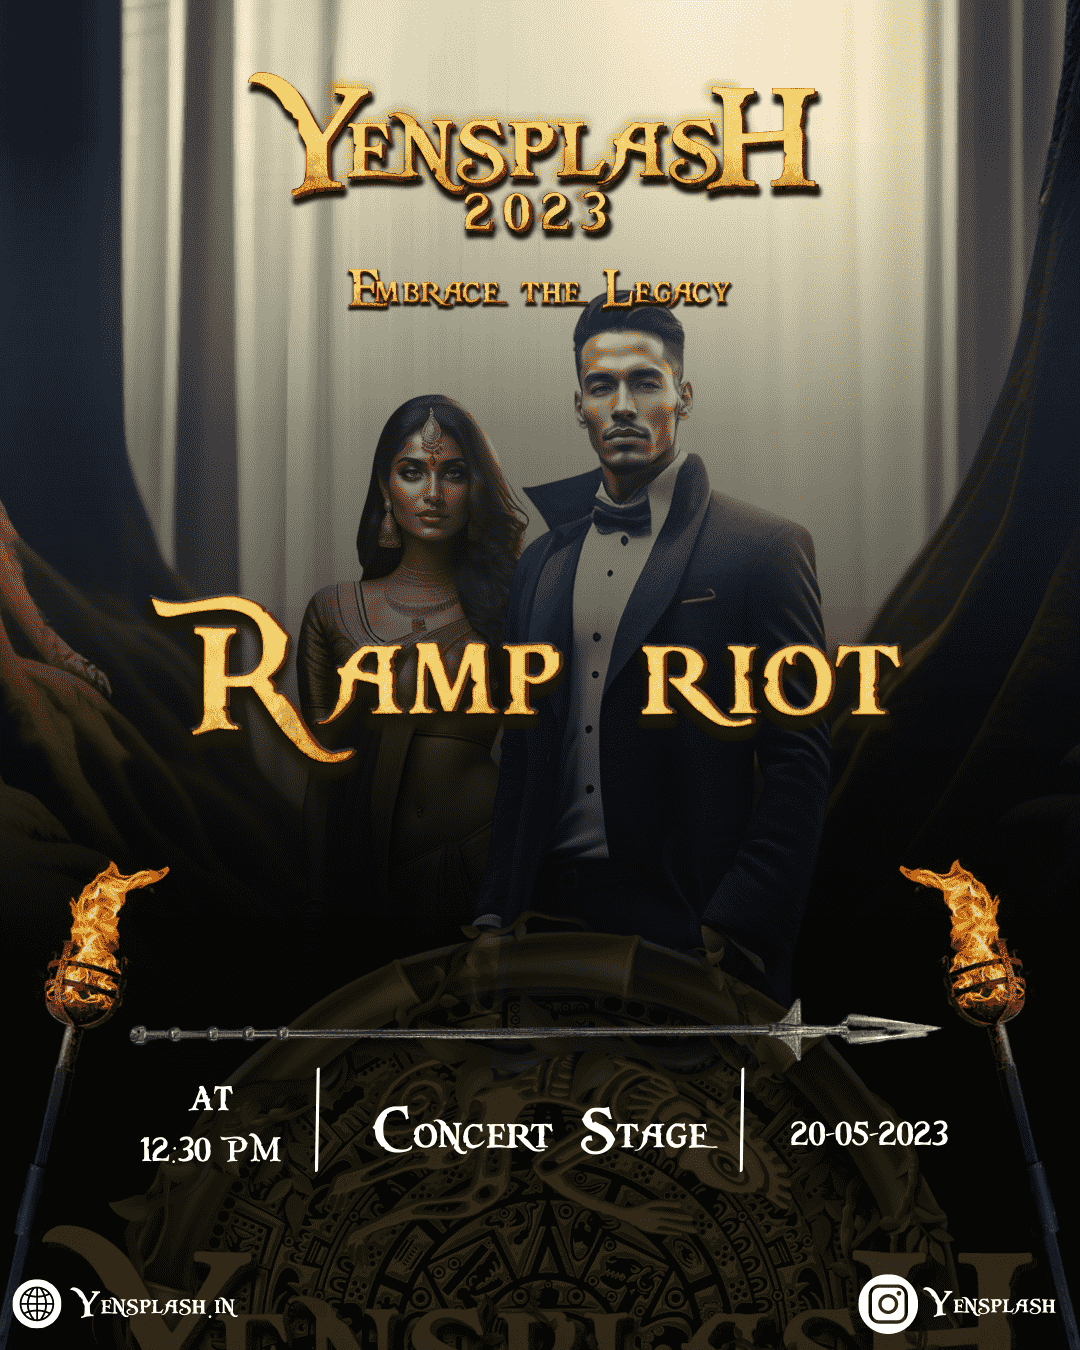
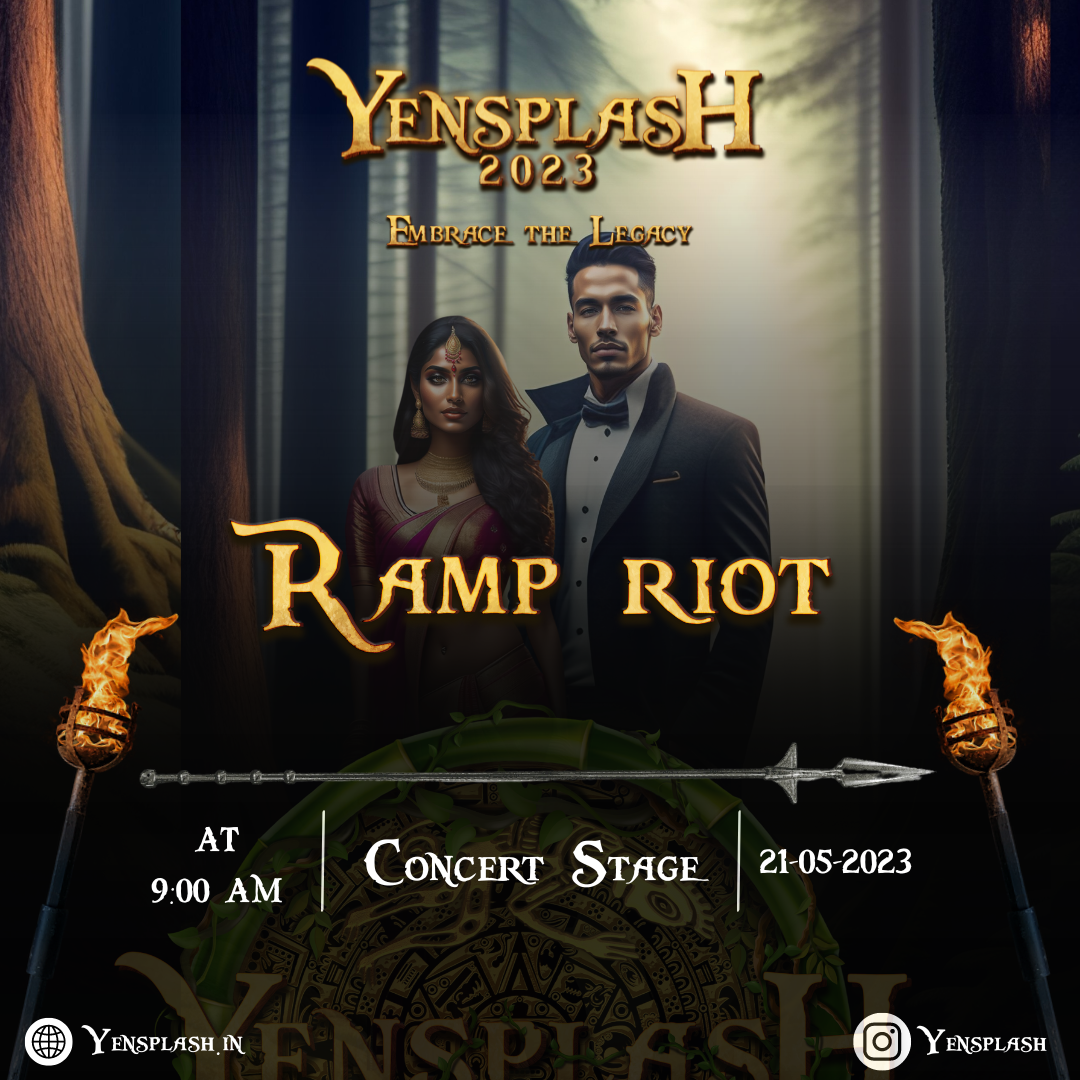
changed images and timings of events

diff --git a/src/eventDetails.js b/src/eventDetails.js
@@ -1,33 +1,33 @@
 
-import AnalyticChamp from "./images/poster/poster1.png";
-import FilmFrenzyFest from "./images/poster/poster10.png";
-import FunkFromJunk from "./images/poster/poster11.png";
-import HennaHeritage from "./images/poster/poster12.png";
-import JazzOff from "./images/poster/poster13.png";
-import Maze from "./images/poster/poster14.png";
-import MockCID from "./images/poster/poster15.png";
-import NoBakeMaster from "./images/poster/poster16.png";
-import PalleteOFPerfection from "./images/poster/poster17.png";
-import PencilPassion from "./images/poster/poster18.png";
+import AnalyticChamp from "./images/poster/poster1.jpg";
+import FilmFrenzyFest from "./images/poster/poster10.jpg";
+import FunkFromJunk from "./images/poster/poster11.jpg";
+import HennaHeritage from "./images/poster/poster12.jpg";
+import JazzOff from "./images/poster/poster13.jpg";
+import Maze from "./images/poster/poster14.jpg";
+import MockCID from "./images/poster/poster15.jpg";
+import NoBakeMaster from "./images/poster/poster16.jpg";
+import PalleteOFPerfection from "./images/poster/poster17.jpg";
+import PencilPassion from "./images/poster/poster18.jpg";
 import RampRiot from "./images/poster/poster19.png";
-import BGMI from "./images/poster/poster2.png";
-import RhythmicFusion from "./images/poster/poster20.png";
-import Shayari from "./images/poster/poster21.png";
-import Singing from "./images/poster/poster22.png";
-import StreetDance from "./images/poster/poster23.png";
-import Valorant from "./images/poster/poster24.png";
-import FaceOfFrenzy from "./images/poster/poster25.png";
-import WarOfWords from "./images/poster/poster26.png";
-import WildPromotions from "./images/poster/poster27.png";
-import YenShark from "./images/poster/poster28.png";
+import BGMI from "./images/poster/poster2.jpg";
+import RhythmicFusion from "./images/poster/poster20.jpg";
+import Shayari from "./images/poster/poster21.jpg";
+import Singing from "./images/poster/poster22.jpg";
+// import StreetDance from "./images/poster/poster23.png";
+import Valorant from "./images/poster/poster24.jpg";
+import FaceOfFrenzy from "./images/poster/poster25.jpg";
+import WarOfWords from "./images/poster/poster26.jpg";
+import WildPromotions from "./images/poster/poster27.jpg";
+import YenShark from "./images/poster/poster28.jpg";
 import YGT from "./images/poster/poster29.png";
-import BlindTypeBattle from "./images/poster/poster3.png";
-import BrushOfBrush from "./images/poster/poster4.png";
-import BugBash from "./images/poster/poster5.png";
-import CameraChronicles from "./images/poster/poster6.png";
-import CinematicShot from "./images/poster/poster7.png";
-import comicComat from "./images/poster/poster8.png";
-import Cubix from "./images/poster/poster9.png";
+import BlindTypeBattle from "./images/poster/poster3.jpg";
+import BrushOfBrush from "./images/poster/poster4.jpg";
+import BugBash from "./images/poster/poster5.jpg";
+import CameraChronicles from "./images/poster/poster6.jpg";
+import CinematicShot from "./images/poster/poster7.jpg";
+import comicComat from "./images/poster/poster8.jpg";
+import Cubix from "./images/poster/poster9.jpg";
 
 
 export const events = [
@@ -341,9 +341,9 @@ export const events = [
       "faculty": ["Deeksha K R", "Harikanth"]
     },
     "schedule": {
-      "day": "20th May",
+      "day": "21st May",
       "venue": "Concert Stage",
-      "time": "12:30 PM- 2:00 PM"
+      "time": "9:00 AM"
     }
   },
   {
@@ -515,8 +515,8 @@ export const events = [
     },
     "schedule": {
       "day": "20th May",
-      "venue": "Seminar Hall",
-      "time": "2:00 PM – 3:00 PM"
+      "venue": "Open-air Auditorium",
+      "time": "9:45 AM"
     }
   },
   {
@@ -594,7 +594,7 @@ export const events = [
     },
     "schedule": {
       "day": "20th May",
-      "venue": "SLH02",
+      "venue": "Seminar Hall",
       "time": "2:00 PM – 3:00 PM"
     }
   },
@@ -671,44 +671,44 @@ export const events = [
       "time": "2:30 PM – 3:30 PM"
     }
   },
-  {
-    "name": "Street Dance",
-    "alias": "",
-    "image": StreetDance,
-    "aboutEvent": "Are you ready to get down and groove to the beat of the streets? Welcome to the world of street dance, where the rhythm is electric and the energy is contagious! From popping and locking to breaking and krumping. This urban dance style is all about pushing boundaries, expressing yourself, and having a blast. So let's hit the dance floor and get ready to move to the rhythm of the SPLASH!",
-    "eventDetail": [
-      "Dancers will compete head-to-head in a series of rounds, with the winner of each round advancing to the next until a champion is crowned."
-    ],
-    "rules": [
-      "It is a Solo dance event.(Free style)",
-      "Two participants will be facing head-to-head with each other.",
-      "Each dancer will have a set amount of time to perform.",
-      "Song will be played by the event coordinator.",
-      "Each Participant should maintain the dance streak of minimum 45 seconds to 1 minute.",
-      "There are no preliminary rounds , every round will be noted as eliminatory round.Judges decision is final."
-    ],
-    "judgingCriteria": [
-      "Musicality: How well a breaker/participant connects with and expresses the music through their dance.",
-      "Foundation: Showcasing mastery of the basics top rock and footwork steps, go downs, transitions, freezes",
-      "Character: How well a breaker/participant expresses their personality through their dance.",
-      "Difficulty of movement: How well a breaker/participant expresses their personality through their dance",
-      "Style: If a breaker/participant showcases a way of moving that’s unique to them.",
-      "Originality: Coming up with fresh variations on existing moves"
-    ],
-    "coordinators": {
-      "students": [
-        { "name": "Abhishek", "phone": "9108674964" },
-        { "name": "Guruprasad", "phone": "9591446918" },
-        { "name": "Ganesh", "phone": "8792143538" }
-      ],
-      "faculty": ["Seetha Laxmi", "Namratha"]
-    },
-    "schedule": {
-      "day": "20th May",
-      "venue": "Car Parking Area",
-      "time": "4:00 PM -5:00 PM"
-    }
-  },
+  // {
+  //   "name": "Street Dance",
+  //   "alias": "",
+  //   "image": StreetDance,
+  //   "aboutEvent": "Are you ready to get down and groove to the beat of the streets? Welcome to the world of street dance, where the rhythm is electric and the energy is contagious! From popping and locking to breaking and krumping. This urban dance style is all about pushing boundaries, expressing yourself, and having a blast. So let's hit the dance floor and get ready to move to the rhythm of the SPLASH!",
+  //   "eventDetail": [
+  //     "Dancers will compete head-to-head in a series of rounds, with the winner of each round advancing to the next until a champion is crowned."
+  //   ],
+  //   "rules": [
+  //     "It is a Solo dance event.(Free style)",
+  //     "Two participants will be facing head-to-head with each other.",
+  //     "Each dancer will have a set amount of time to perform.",
+  //     "Song will be played by the event coordinator.",
+  //     "Each Participant should maintain the dance streak of minimum 45 seconds to 1 minute.",
+  //     "There are no preliminary rounds , every round will be noted as eliminatory round.Judges decision is final."
+  //   ],
+  //   "judgingCriteria": [
+  //     "Musicality: How well a breaker/participant connects with and expresses the music through their dance.",
+  //     "Foundation: Showcasing mastery of the basics top rock and footwork steps, go downs, transitions, freezes",
+  //     "Character: How well a breaker/participant expresses their personality through their dance.",
+  //     "Difficulty of movement: How well a breaker/participant expresses their personality through their dance",
+  //     "Style: If a breaker/participant showcases a way of moving that’s unique to them.",
+  //     "Originality: Coming up with fresh variations on existing moves"
+  //   ],
+  //   "coordinators": {
+  //     "students": [
+  //       { "name": "Abhishek", "phone": "9108674964" },
+  //       { "name": "Guruprasad", "phone": "9591446918" },
+  //       { "name": "Ganesh", "phone": "8792143538" }
+  //     ],
+  //     "faculty": ["Seetha Laxmi", "Namratha"]
+  //   },
+  //   "schedule": {
+  //     "day": "20th May",
+  //     "venue": "Car Parking Area",
+  //     "time": "4:00 PM -5:00 PM"
+  //   }
+  // },
   {
     "name": "Sing-A-Thon",
     "alias": "Singing",
@@ -738,9 +738,9 @@ export const events = [
       "faculty": ["Ashitha Shetty", "Thripthi B Shetty"]
     },
     "schedule": {
-      "day": "21st May",
-      "venue": "Concert Stage",
-      "time": "9:00 AM -10:30 AM"
+      "day": "20th May",
+      "venue": "Open-air Auditorium",
+      "time": "1:00 PM"
     }
   },
   {
@@ -771,9 +771,9 @@ export const events = [
       "faculty": ["Raghavendra", "Manjunath Raikar"]
     },
     "schedule": {
-      "day": "21st May",
-      "venue": "Concert Stage",
-      "time": "10:30 AM-12:30 PM"
+      "day": "20th May",
+      "venue": "Open-air Auditorium",
+      "time": "3:00 PM"
     }
   },
   {
@@ -972,9 +972,9 @@ export const events = [
       "faculty": ["Pandu Naik", "Sleeba Mathew"]
     },
     "schedule": {
-      "day": "21st May",
-      "venue": "Seminar Hall",
-      "time": "1:00 PM – 2:00 PM"
+      "day": "20th May",
+      "venue": "Open-air Auditorium",
+      "time": "10:15 AM"
     }
   },
   {
@@ -1004,7 +1004,7 @@ export const events = [
     "schedule": {
       "day": "21st May",
       "venue": "Physics lab",
-      "time": "2:00 PM – 3:00 PM"
+      "time": "12:00 PM"
     }
   },
   {
@@ -1051,8 +1051,8 @@ export const events = [
     },
     "schedule": {
       "day": "21st May",
-      "venue": "Machine lab",
-      "time": "12:00 PM – 1:30 PM"
+      "venue": "Digital System Design Lab 2nd floor",
+      "time": "10:00 AM"
     }
   }
 ]
